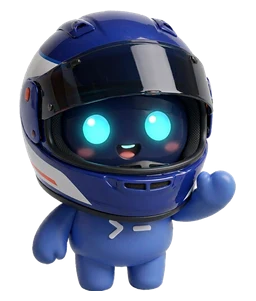
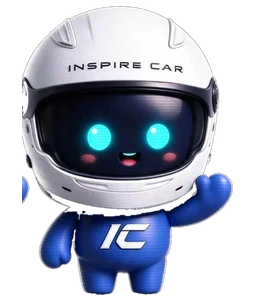
style(aiOrb): 小灵换装白盔版——INSPIRE CAR 盔标 + IC 胸标，说话时手臂小幅摆动
直接从用户设计稿裁切两个姿态（待机=闭眼垂手/唤醒=睁眼挥手），边缘洪水填充去黑底，
保留稿内白色头盔、INSPIRE CAR 盔标、白色 IC 胸标与青色发光眼。
ai-mascot-talk 叠加 ±2.4° 轻旋摆（脚部轴心），说话/聆听时抬起手臂随之微动。

diff --git a/src/ui/aiOrb.css b/src/ui/aiOrb.css
@@ -79,8 +79,9 @@
   50%      { transform: translateY(-7px) rotate(0.6deg); }
 }
 @keyframes ai-mascot-talk {
-  0%, 100% { transform: translateY(0) scale(1); }
-  50%      { transform: translateY(-5px) scale(1.03); }
+  /* 说话/聆听：轻弹 + 小幅左右摆（以脚为轴），抬起的手臂会随之轻轻挥动 */
+  0%, 100% { transform: translateY(0) scale(1) rotate(-2.4deg); }
+  50%      { transform: translateY(-5px) scale(1.03) rotate(2.4deg); }
 }
 @keyframes ai-mascot-halo {
   0%, 100% { opacity: 0.55; transform: translate(-50%, -50%) scale(0.9); }
